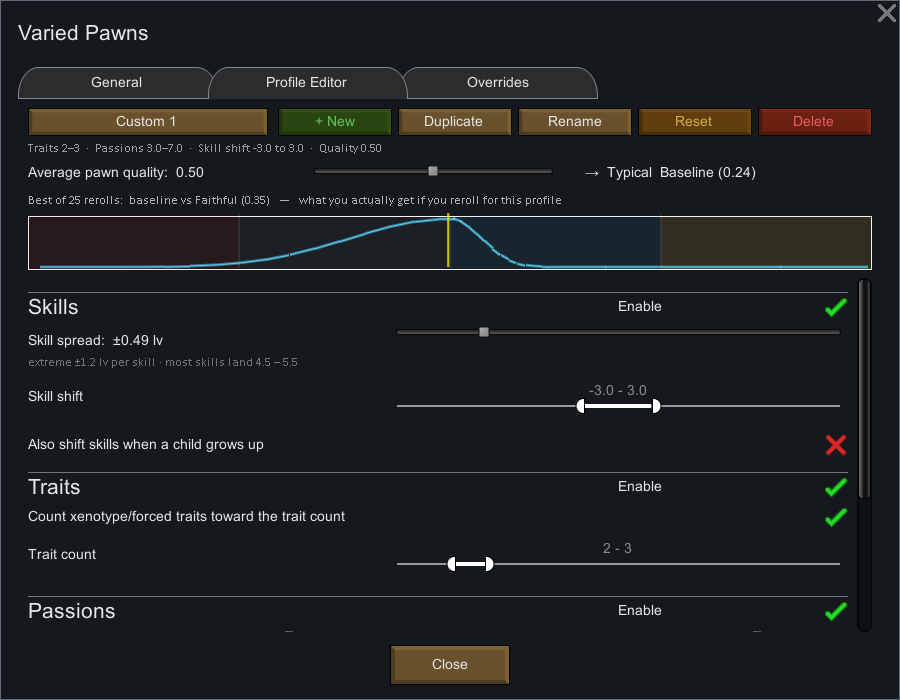
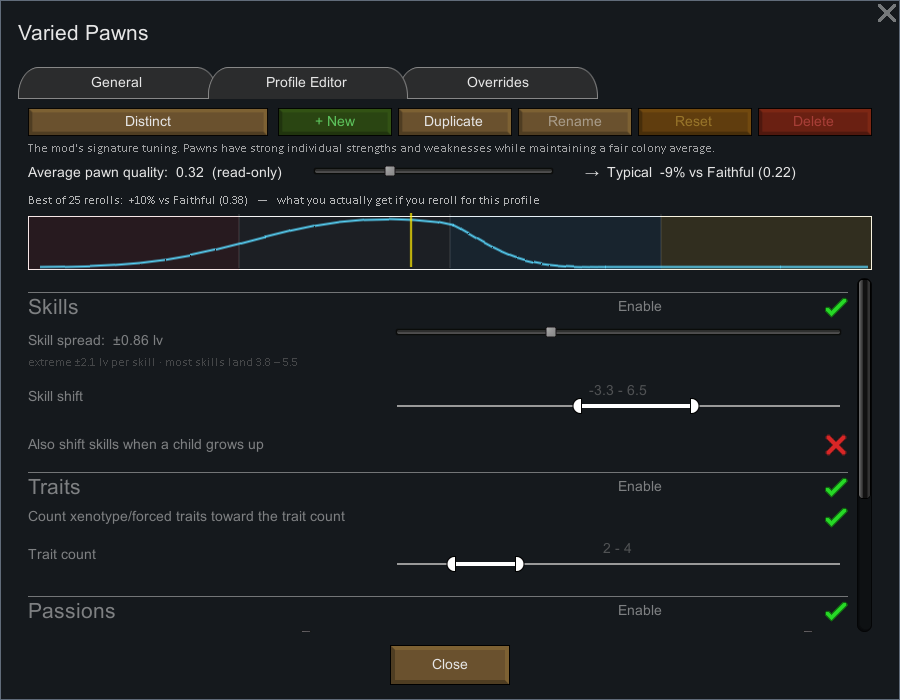
docs(workshop): re-shoot the Profile Editor against Distinct
The listing's Profile Editor image showed `Custom 1`, a nameless test profile.
It now shows `Distinct`, with the preset's own description line and the quality
slider correctly read-only.

The header and the sliders agree, which is the thing the previous attempt got
wrong, and the agreement is checkable rather than eyeballed: the on-screen
readouts (`Typical -9%`, `Best of 25 +10%`) match envelope_check.py's Distinct
row (-8.7% at N=1, +9.5% at N=25), and the sliders carry Distinct's own values.

Getting there did not need the FloatMenu the bridge cannot drive. `editingValues`
is a cache that `Editing` rebuilds via `RefreshEditor()` when it is null, so
setting `editorProfileId` AND nulling `editingValues` runs the same path
`SetEditorProfile` uses. Setting the id alone is what produced the discarded
image.

`tab-overrides.png` is unchanged and re-verified byte-identical against the
build that moved race overrides below xenotype overrides -- both sections sit
below the fold, so the reorder cannot appear in that crop.

STATUS.md records the blocker still standing in front of image 4: `activeProfileId`
does not re-point generation, because `RefreshResolved()` caches the resolved
profile at load. No config file was written at any point.

diff --git a/docs/workshop/STATUS.md b/docs/workshop/STATUS.md
@@ -12,7 +12,7 @@ material, so they go last.
 |---|---|---|
 | 1 | Title card (Workshop thumbnail) | **Done** — `../../About/Preview.png` |
 | 2 | The payoff shot: two colonists, same kind, same profile, one lucky roll and one poor | **Not started** |
-| 3 | Profile Editor tab | **Done, but shows a test profile** — see below |
+| 3 | Profile Editor tab | **Done** — `tab-profile-editor.png`, showing `Distinct` |
 | 4 | Vanilla-vs-varied distribution graphic, plotted from a real 1000-pawn dump | **Not started** |
 | 5 | General tab | **Done** — `tab-general-distinct.png` |
 | 6 | Overrides tab | **Done** — `tab-overrides.png` |
@@ -30,45 +30,77 @@ the logo with it.
 ## Files here
 
 - `tab-overrides.png` — shipped faction defaults, ten rows with priorities. Strongest of the
-  three tab shots; use as-is.
+  three tab shots; use as-is. **Re-verified against the build that moved race overrides below
+  xenotype overrides: a fresh capture is byte-identical (SHA-256 `148B158B…`).** Both of those
+  sections sit below the fold, so the reorder cannot show in this crop. Not stale.
 - `tab-general-distinct.png` — General tab with the active profile set to `Distinct`, showing
   the preset's own description line. **Use this one.**
 - `tab-general.png` — superseded. Same tab with the active profile reading `Custom 1`, a
   leftover test config. Kept only for comparison; do not upload.
-- `tab-profile-editor.png` — correct and clean (curve, Typical Baseline, Best-of-25 line all
-  visible) but the selected profile is `Custom 1`, a nameless test profile, rather than a
-  preset a player would recognise.
+- `tab-profile-editor.png` — **now shows `Distinct`**, with the curve, the Typical line and the
+  Best-of-25 line all visible, the preset's own description under the header, and the quality
+  slider correctly read-only for a preset. Header and sliders agree, and the agreement is
+  checkable rather than eyeballed: the on-screen readouts (`Typical -9%`, `Best of 25 +10%`) match
+  `envelope_check.py`'s Distinct row (−8.7% at N=1, +9.5% at N=25), and the sliders show
+  Distinct's own values (quality 0.32, skill spread ±0.86, shift −3.3–6.5).
 
 All tab shots are 900x700, captured through the GABS bridge's own `take_screenshot` cropped to
 `window:1:RimWorld.Dialog_ModSettings`, so they carry no desktop bleed, tooltips or dev chrome.
 
 ## Unfinished, and why
 
-**The Profile Editor re-shoot against `Distinct` failed and the image was discarded.** Two
-separate problems, both worth knowing before retrying:
+### The FloatMenu limit is real, and here is the way around it
 
-1. Setting `editorProfileId` directly through `update_mod_settings` changes the header but does
-   **not** reload `editingValues`. The capture showed "Distinct" above `Custom 1`'s sliders and
-   curve — an image that would have misrepresented the mod on the Workshop. The profile picker
-   has to be driven through the real UI so the values actually load.
-2. Driving it through the UI then hit a hard stop: **Dying Light 2 held the Windows foreground**,
-   `SetForegroundWindow` returned `False`, and RimWorld neither renders nor processes queued
-   clicks while unfocused. Every capture after that point was a byte-identical stale frame — no
-   error, no warning. Diagnosed and stopped there rather than killing the other game.
+The profile picker **cannot** be driven by the bridge. `DebugActions.cs:62-65` already recorded
+why, verified against the Faction Add button on 2026-08-06: a synthetic click activates the
+button but the `FloatMenu` does not survive to the next frame, so its rows can never be read or
+clicked. Nothing about the foreground fixed this — with no other game running and frames
+confirmed live, the click still returns "UI state did not change" and no menu opens.
 
-**Item 4, the distribution graphic, is not started** — it needs a 1000-pawn
-`Roll pawns and dump distribution` run, which needs the same working game session.
+**What worked instead, and why it is not the same as the attempt that failed.** Setting
+`editorProfileId` alone changes the header and leaves `editingValues` holding the old profile —
+that is the mismatch that produced the discarded image. But `editingValues` is a *cache*: the
+`Editing` getter calls `RefreshEditor()` whenever it is null. So setting **both**
+`editorProfileId = preset_distinct` **and** `editingValues = null` (two `update_mod_settings`
+calls, `write: false`) drives the same code path `SetEditorProfile` uses, and the next frame
+loads Distinct's real values. Header and sliders agree because the mod itself resolved them.
 
-The mod's on-disk config was never modified: every settings change ran at `write: false`, and
-`reload_mod_settings` discarded them before exit. Verified afterwards —
-`activeProfileId` still `custom_639215913003568941`.
+### Item 4 is blocked on the same cache pattern, one layer down
+
+The 1000-pawn dump runs fine — path `Actions\Roll pawns and dump distribution` (backslash; the
+`Varied Pawns` category is metadata, not a path segment), then click the `1000 pawns` row in the
+`Dialog_DebugOptionListLister`, which *is* clickable. Two runs completed.
+
+**But both resolved to `Custom 1`, not to the preset the run was supposed to measure.** Setting
+`activeProfileId` does not re-point generation: `RefreshResolved()` caches the resolved profile
+into `Active`/`Hostile` at load, and a direct field write never re-runs it. Setting
+`enableOverrides = false` changes nothing, which is what proves it is the cache and not an
+override winning. The mod's own diagnostic caught this and said so
+(`^^ NOT the configured active profile`) — the instrument worked.
+
+Every remaining route needs a decision the controller has not made:
+- **write the config and restore from backup** — `write: true` then `reload_mod_settings` would
+  re-run `RefreshResolved`, but it writes the player's real config file;
+- **Import from Clipboard** — a plain button the bridge *can* click, and `CopyFrom` calls
+  `RefreshResolved`; needs a crafted settings payload on the clipboard;
+- **shoot it against `Custom 1` as it stands** — honest, but `Custom 1` is near-`Faithful`
+  (shift −3–3, spread 0.49, quality 0.50), so it is a weak advertisement for a variance mod.
+
+Useful discovery while measuring: the dump already prints a **12-bin per-pawn-mean-skill
+histogram**, so item 4 does not need new code to get a distribution shape — only a control run to
+put beside it.
+
+**The on-disk config was never modified, again.** Every change ran at `write: false`;
+`reload_mod_settings` restored in-memory state to disk before exit. Verified by hash, unchanged
+across the whole session: SHA-256 `DF224748…`, mtime `2026-08-11 06:41:42`, `activeProfileId`
+still `custom_639215913003568941`. A backup sits outside the repo in the session scratchpad.
 
 ## To finish
 
-Close any other fullscreen game first, then it is roughly five minutes of bridge work:
-the Profile Editor re-shoot against `Distinct` (via the real profile picker), plus the
-1000-pawn dump behind image 4. Images 2 and 4 are the two that show the mod's *effect*
-rather than its settings, and are worth more than any tab shot.
+Image 2 (the payoff shot) and image 4 (the distribution graphic) remain — the two that show the
+mod's *effect* rather than its settings, and worth more than any tab shot. Image 4 needs the
+profile-resolution decision above settled first; image 2 needs two colonists rolled from one
+profile and their character sheets shot side by side.
 
 ## Regenerating the generated art
 
